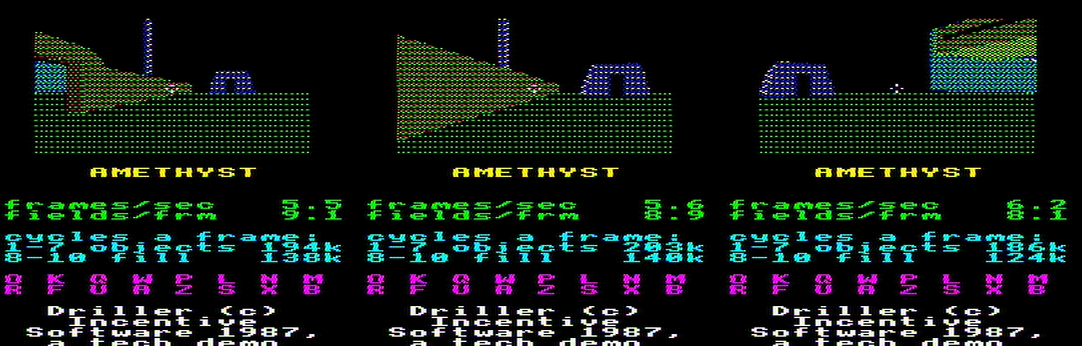
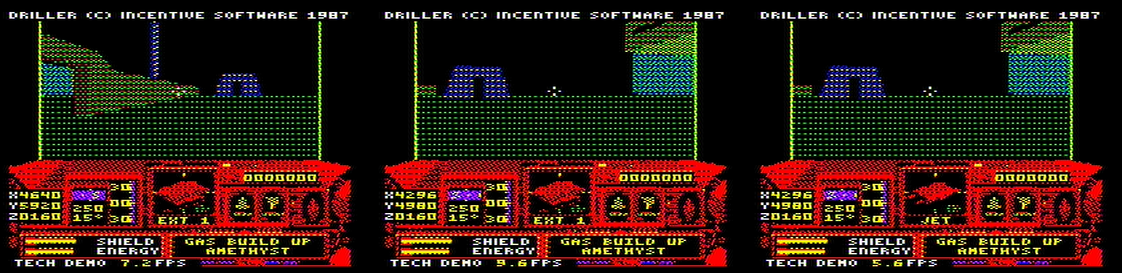
Driller's instrument panel on the disc; decision 47; the journal

diff --git a/README.md b/README.md
@@ -38,12 +38,14 @@ order) and fills it into MODE 2, double-buffered, flipping as soon as the
 beam leaves the view. Every frame the disc's check sees matches the
 Python model's render of the same camera, byte for byte.
 
-![The disc: walking from Driller's start in Amethyst, through PAL](docs/images/disc_live.png)
+![The disc: Driller's start in Amethyst, with Driller's instrument panel, through PAL](docs/images/disc_live.png)
 
-*The disc in jsbeeb through PAL: Driller's start, then a step, then a
-turn. The figures on the screen are the BBC's own timing of the whole
-frame and of its two halves: stages 1-7 (objects to clipped polygons) and
-8-10 (the fill). Driller is Incentive Software's.*
+*The disc in jsbeeb through PAL: Driller's start, a step, and the jet.
+The panel is Driller's own, the Atari ST version's console cut down to
+MODE 2's 128 pixels, with its score, shield and energy, heading and pitch,
+step and turn, position, vehicle, area and messages, driven by Driller's
+logic; the frames a second beside "tech demo" are the BBC's own timing of
+the whole frame. Driller is Incentive Software's.*
 
 **How fast:** measured on the disc's check (journal, 2026-10-31), walking
 through Driller's areas a frame takes a median of about 3 fields (about
@@ -53,7 +55,7 @@ draws nothing, so a key starts the next frame at once. The original
 redrew about once every two-thirds of a second on the Spectrum. Every
 stage matches the model exactly, so the work from here is speed, on a
 stock Master. Driller's game itself (the drilling rigs, the laser, the
-sensors, the panel and the sound) comes after. `docs/journal.md` has the
+sensors and the sound) comes after. `docs/journal.md` has the
 story as it goes.
 
 ![Nine of Driller's views from the model, through PAL](docs/images/gallery_pal.png)

diff --git a/docs/decisions.md b/docs/decisions.md
@@ -554,3 +554,22 @@ the entrance views and walks (at most 43 in one view), no draw order
 changes there; 11,753 of 35,314,240 over every check view, the order
 different in 6; against the ZX oracle away from edges, 1,294,081 of
 1,294,700 pixels agree (1,293,937 of 1,294,548 before).
+
+## 47. Driller's panel (2026-11-01, Matt chose it as the next layer)
+
+The panel is the Atari ST version's console (taken from its program at
+build time, never committed: decision 6), cut rather than scaled to
+MODE 2's 128 pixels: one MODE 2 pixel is two of the ST's, each the
+brighter of its pair, each ST colour a pattern from the colour study
+(decision 8); the mouse's buttons (arrows, information, save and load)
+are dropped to fit, with X, Y and Z where save and load were. Its fields
+are the original's (`$B72B`, `docs/research/panel.md`) but for the clock,
+the seismograph and the rigs' animation, which wait for those layers; the
+vehicle is the ST's jet or probe picture with its name. The numbers are a
+3 × 5 font of the port's own, the labels white (the ST's red blurs away
+through PAL). Every field is redrawn after a pass when its value changed,
+into both buffers inside the beam's window (decision 21). The frames a
+second stay on the screen beside "tech demo", with the credit to Incentive
+above the view (decision 6); the cycle figures and key lines are gone. The
+packed picture is loaded once into the transform's cache before it's
+needed, and the panel's data takes the MOS font's place.

diff --git a/docs/journal.md b/docs/journal.md
@@ -615,3 +615,19 @@ the face loop than it saved). The front end's bank has little room left
 again; about a quarter of the candidates are transformed and projected
 for nothing, and a per-object test from the transform's cache is the next
 lever.
+
+## 2026-11-01: Driller's instrument panel (track X)
+
+Matt chose the panel as the next layer. `tools/mkpanel.py` cuts the ST's
+console out of its program and converts it; `src/panel.6502` draws its
+fields from the logic's variables after each pass (decision 47). Measured
+on the logic disc's check: `panel_values` a median 4,510 cycles a pass
+(p90 6,612, most 9,255), each changed cell 826-1,097 more to draw into both
+buffers; nothing measurable a frame. `make panel` checks `panel_values`
+against `tools/model/panel.py` over 656 value sets, and `make live` checks
+every flip's screen outside the view against the model's render of the
+panel; the first run caught a real fault (the position's divide
+overwrote the score). Extra live scenarios showed two faults not the
+panel's: with the jet, one view byte differs from the model; with the
+clock's ticks, the logic differs from the transcription. Both are being
+looked into.
